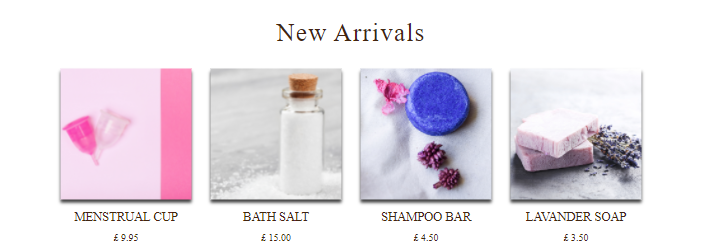
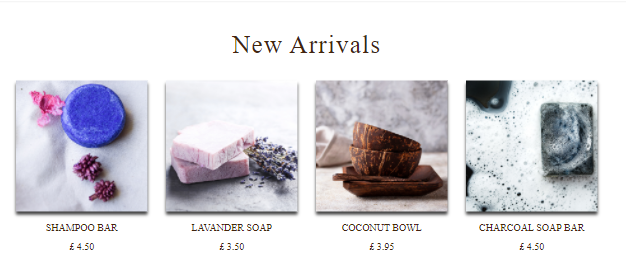
fixed various issues after testings

diff --git a/static/css/base.css b/static/css/base.css
@@ -370,7 +370,7 @@ input[name="q"]::placeholder {
   }
   .update-link,
   .remove-item {
-    font-size: smaller;
+    font-size: x-small;
   }
   .motto {
     font-size: 2rem;
@@ -403,7 +403,9 @@ input[name="q"]::placeholder {
   .cart-mob {
     margin-top: 2rem !important;
   }
-
+  .card-footer{
+    width:100%;
+  } 
   .increment-qty,
   .decrement-qty {
     padding: 0.25rem;
@@ -423,9 +425,6 @@ input[name="q"]::placeholder {
   }
   #delivery-banner h4 {
     font-size: 0.9rem;
-  }
-  .card-footer{
-    width:100%;
   }    
   .modal-backdrop.show {
     opacity: 0.5;
@@ -437,4 +436,9 @@ input[name="q"]::placeholder {
     width: 100%;
     height: 100%;
   }
-}
+  .btn-group-lg>.btn, .btn-lg {
+    padding: .5rem;
+    font-size: x-small;
+    line-height: 1;
+    }
+  }

diff --git a/home/templates/home/index.html b/home/templates/home/index.html
@@ -41,7 +41,7 @@
                        
                     <div class="my-3 text-center">
                         
-                        <h5 class="text-uppercase">{{product.name}}</h5> <span>£ {{product.price}}</span>
+                        <h5 class="text-uppercase" style="font-size:medium">{{product.name}}</h5> <span>£ {{product.price}}</span>
                     </div>        
                 
                 </div>           

diff --git a/products/forms.py b/products/forms.py
@@ -7,7 +7,8 @@ class ProductForm(forms.ModelForm):
 
     class Meta:
         model = Product
-        fields = '__all__'
+        fields = {'category', 'sku', 'name', 
+                  'description', 'price', 'image'}
     
     image = forms.ImageField(label='Image', required=False, widget=CustomClearableFileInput)
 
@@ -16,5 +17,5 @@ class ProductReviewForm(forms.ModelForm):
 
     class Meta:
        model = ProductReview
-       fields = {'rating','review_headline', 'review_text'}
+       fields = {'rating', 'review_headline', 'review_text'}
         

diff --git a/Testing.md b/Testing.md
@@ -136,8 +136,8 @@ As a User I would like to be able to:
 
 ### Conclusion
 * Email Address Confirmation email contains site_name and site_domain and they returned the default value 'example.com'.
-* Delivery information is updated as expected after alternation in My Account page.
-* Order History Page renders as expected accessing from My Account page.
+* Delivery information is updated as expected after alternation in My Profile page.
+* Order History Page renders as expected accessing from My Profile page.
 
 ## Admin Product Management
 ---
@@ -152,15 +152,17 @@ As an admin I would like to be able to:
 
 ### Conclusion
 * Admin user redirected to product_detail page they created.
-* Admin can add edit or delete either from product page or product_detail page.
-
+* Admin can edit or delete either from product page or product_detail page.
+* Admin can add product from Product Management page
 
 # Bugs
 Through the developing stage I had come across many problems but some of them are persistent:  
 * On the cart page I created `Coupon` model and `add_coupon` function. On this function I added print codes to test if my code is working or not, when I got it working I wanted to remove this print line however when I remove them I have recieved this error :  
 ![(readme-doc/error.PNG)](readme-doc/error.PNG)
 
+
 I am very puzzled with this error hence I checked django documentation, ask on Slack, ask tutors, none could find any solution to it. So I kept the print lines as they are, hopefully in the future I will figure out the solution.
 
 * Other problem I have is when I wrote the modal I added the js code to my static folder but recently it stopped working and I had to add the script to my html to get it working.
 
+* I am aware that on the PRoduct Model there are imageurl and rating fields which are not used I wanted to get rid of it but I was worried it will break something same reason with friendly name field on category.
